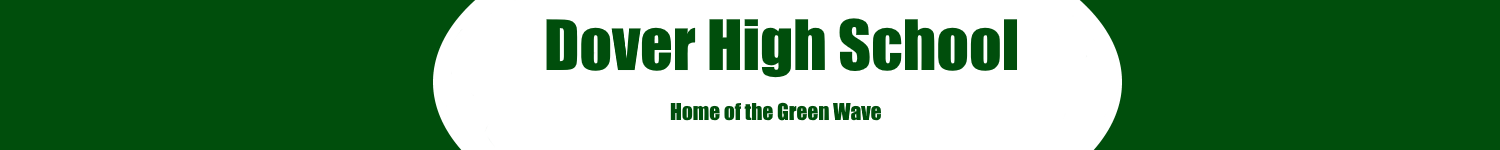
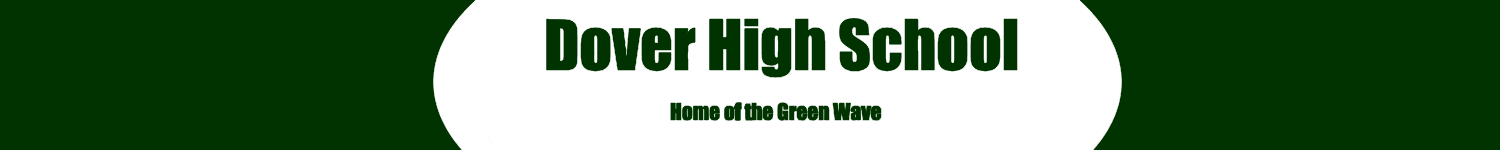
fixed colors and placement on bigger screens

diff --git a/ClubsWebsite/css/style.css b/ClubsWebsite/css/style.css
@@ -13,6 +13,7 @@
   color: black;
   float:right;
   width: 80%;
+  height: 100%;
 }
 .dates {
   width: 100px;
@@ -102,6 +103,7 @@ header {
   position: relative;
   height: 40px;
   margin: 30px 0 0 5%;
+  margin-top: 5%;
   -webkit-font-smoothing: antialiased;
   -moz-osx-font-smoothing: grayscale;
 }
@@ -114,7 +116,7 @@ header {
   background-color: #ffffff;
   color: #003300;
   border-radius: 3px;
-  margin-top: 50%
+  /*margin-top: 50%*/
 }
 .no-touch .cd-dropdown-trigger:hover {
   background-color: #f2f2f2;
@@ -1020,7 +1022,7 @@ header {
   background-image: linear-gradient(to bottom, #003300, #ffffff);
   min-height: calc(100vh + 100px);
   padding: 2em 5%;
-  padding-top: 0px;
+  padding-top: 1%;
   line-height: 2;
 }
 
